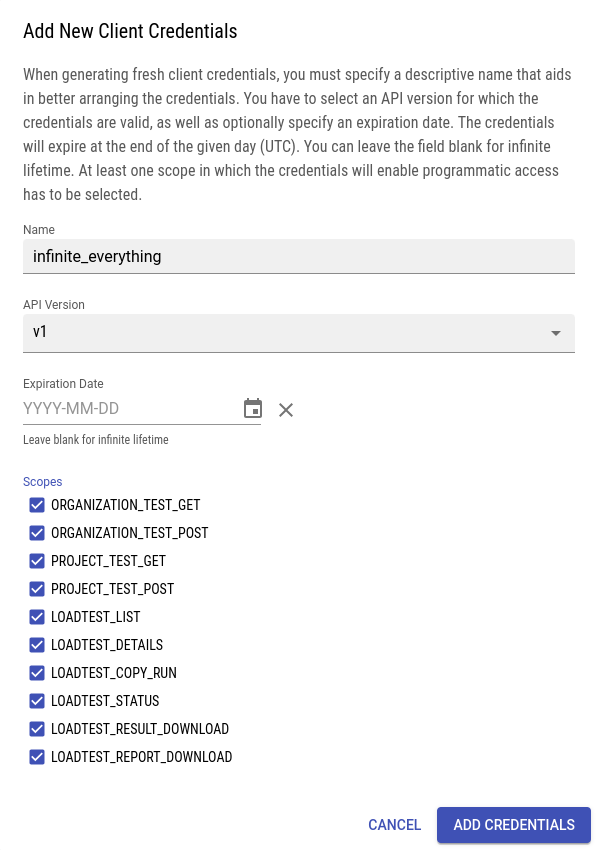
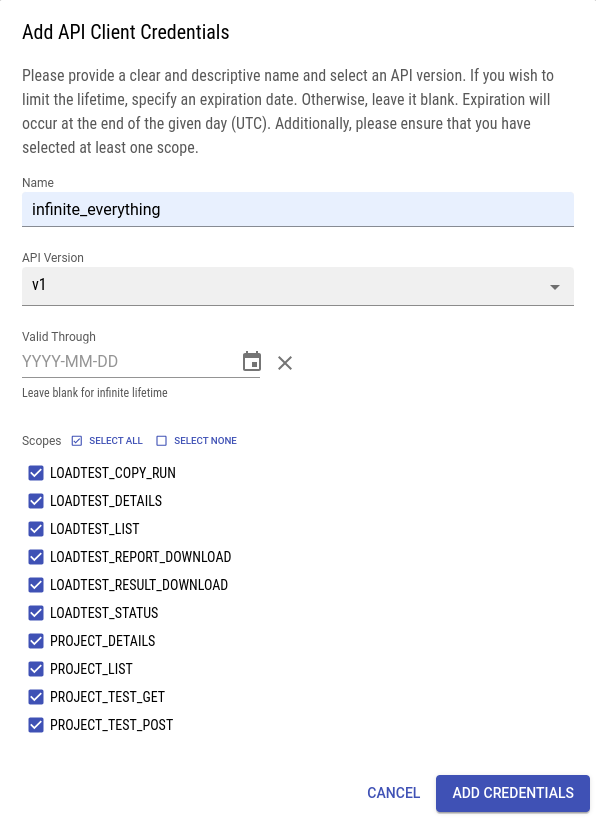
updated API information for XTC v78

diff --git a/content/en/xtc/integrations/500-api.md b/content/en/xtc/integrations/500-api.md
@@ -24,12 +24,11 @@ Please note that this feature is still in beta. We encourage you to test it, but
 
 To allow remote access to your load tests, you must first create client credentials. You can do this in your organization or in your projects.
 
-To create client credentials in your organization, go to *Configuration* > *Integrations* > *API Client Credentials* and click the *Add* button. You will need to specify a name and an optional expiration date. You will also need to select an API version and the scopes (purposes) for which these credentials will be used. 
+To create client credentials in your organization, go to *Configuration* > *Integrations* > *API Client Credentials* and click the *Add* button. You will need to specify a name and an optional expiration date. You will also need to select an API version and the scopes (purposes) for which these credentials will be used. API credentials with an expiration date will expire _at the end_ of the specified day (UTC).
 
 {{< image src="xtc/api_credentials_create.png" >}}
 Dialog to add new client credentials to an organization.
 {{< /image >}}
-
 
 Submit the dialog and XTC will show you the generated client secret, which you can now copy to a safe place. You will not be able to access it again, so if you lose or forget the secret, fresh credentials have to be created.
 
@@ -76,19 +75,43 @@ curl -X GET \
 
 If all went well, you should see a JSON response with all your load tests printed to the console.
 
-For your convenience, here is a list of all current API endpoints and what they are used for:
+For your convenience, here is a list of current API endpoints and what they are used for:
 
-* List all load tests in a project:<br>
-  `/public/api/v1/orgs/<org-short-name>/projects/<project-short-name>/loadTests`
-* List the details of a certain load test:<br>
-  `/public/api/v1/orgs/<org-short-name>/projects/<project-short-name>/loadTests/<load-test-number>`
-* List the status of a certain load test:<br>
-  `/public/api/v1/orgs/<org-short-name>/projects/<project-short-name>/loadTests/<load-test-number>/status`
-* Copy the specified load test and run the copy:<br>
-  `/public/api/v1/orgs/<org-short-name>/projects/<project-short-name>/loadTests/<load-test-number>/runCopy`
-* Download the specified report archive:<br>
-  `/public/api/v1/orgs/<org-short-name>/projects/<project-short-name>/loadTests/<load-test-number>/reports/<report-number>/download`
-* Download the specified report archive:<br>
-  `/public/api/v1/orgs/<org-short-name>/projects/<project-short-name>/loadTests/<load-test-number>/results/<result-number>/download`
+### Project API Endpoints
+
+* Retrieve the details of a project:<br />
+  `GET /public/api/v1/orgs/<org-short-name>/projects/<project-short-name>` (requires scope `PROJECT_DETAILS`)
+* List all the projects of an organization:<br />
+  `GET /public/api/v1/orgs/<org-short-name>/projects` (requires scope `PROJECT_LIST`)
+
+### Load Test API Endpoints
+
+* Copy the specified load test and run the copy:<br />
+  `GET /public/api/v1/orgs/<org-short-name>/projects/<project-short-name>/loadTests/<load-test-number>/runCopy` (requires scope `LOADTEST_COPY_RUN`)
+* List the details of a certain load test:<br />
+  `GET /public/api/v1/orgs/<org-short-name>/projects/<project-short-name>/loadTests/<load-test-number>` (requires scope `LOADTEST_DETAILS`)
+* List all load tests in a project:<br />
+  `GET /public/api/v1/orgs/<org-short-name>/projects/<project-short-name>/loadTests`(requires scope `LOADTEST_LIST`)
+* Download the specified report archive:<br />
+  `GET /public/api/v1/orgs/<org-short-name>/projects/<project-short-name>/loadTests/<load-test-number>/reports/<report-number>/download`(requires scope `LOADTEST_REPORT_DOWNLOAD`)
+* Download the specified result archive:<br />
+  `GET /public/api/v1/orgs/<org-short-name>/projects/<project-short-name>/loadTests/<load-test-number>/results/<result-number>/download`(requires scope `LOADTEST_RESULT_DOWNLOAD`)
+* List the status of a certain load test:<br />
+  `GET /public/api/v1/orgs/<org-short-name>/projects/<project-short-name>/loadTests/<load-test-number>/status`(requires scope `LOADTEST_STATUS`)
+
+## API Documentation and Explorer
 
 For a complete formal documentation, visit https://xtc.xceptance.com/public/api/json or https://xtc.xceptance.com/public/api/yaml. There you will find the [OpenAPI](https://www.openapis.org/)-compliant specification of all existing API endpoints, including their respective request and response types, in either JSON or YAML format.
+
+In addition to the OpenApi specification in JSON or YAML format, XTC also presents the definition of its public APIs as a browsable documentation, the [XTC API Explorer](https://xtc.xceptance.com/exploreApi): this includes the help texts as well as the input and output data types for each API endpoint.
+
+{{< image src="xtc/api_explorer.png" >}}
+API Explorer displaying information about the load test details request.
+{{< /image >}}
+
+You can also try API calls directly from the API Explorer. For this to work, you will need to configure authorization information. To do this, go to **Authentication** in the menu. You can then provide either a valid bearer access token **or** specify client ID and secret as well as the required scopes for XTC to create a new bearer access token on your behalf using the OAuth procedure.
+
+{{< image src="xtc/api_explorer_authentication.png" >}}
+Handling authentication in the API explorer: an access token has been created for your entered client ID and secret.
+{{< /image >}}
+

diff --git a/content/en/xtc/xtc-release-notes/v78.md b/content/en/xtc/xtc-release-notes/v78.md
@@ -18,7 +18,7 @@ sitemap:
 
 * In addition to the OpenApi specification in JSON or YAML format, XTC now also presents the definition of its public APIs as a browsable documentation, the [XTC API Explorer](https://xtc.xceptance.com/exploreApi):
     * The documentation includes the help texts as well as the input and output data types for each API endpoint.
-    * You can also try API calls directly from the API Explorer. For this to work, you will need to configure authorization information in the top right corner of the page. Provide either a valid bearer access token OR specify client ID and secret as well as the required scopes for XTC to create a new bearer access token on your behalf using the OAuth procedure.
+    * You can also try API calls directly from the API Explorer. For this to work, you will need to configure authorization information. Provide either a valid bearer access token OR specify client ID and secret as well as the required scopes for XTC to create a new bearer access token on your behalf using the OAuth procedure.
 * The *Add API Client Credentials* dialog has been enhanced:
     * Past expiration dates can no longer be specified.
     * The list of scopes is now sorted alphabetically.

diff --git a/content/en/xtc/xtc-release-notes/v76.md b/content/en/xtc/xtc-release-notes/v76.md
@@ -105,7 +105,7 @@ For your convenience, here is a list of all the API endpoints and what they are 
   `/public/api/v1/orgs/<org-short-name>/projects/<project-short-name>/loadTests/<load-test-number>/runCopy`
 * Download the specified report archive:<br>
   `/public/api/v1/orgs/<org-short-name>/projects/<project-short-name>/loadTests/<load-test-number>/reports/<report-number>/download`
-* Download the specified report archive:<br>
+* Download the specified result archive:<br>
   `/public/api/v1/orgs/<org-short-name>/projects/<project-short-name>/loadTests/<load-test-number>/results/<result-number>/download`
 
 For a complete formal documentation, visit https://xtc.xceptance.com/public/api/json or https://xtc.xceptance.com/public/api/yaml. There you will find the [OpenAPI](https://www.openapis.org/)-compliant specification of all existing API endpoints, including their respective request and response types, in either JSON or YAML format.
